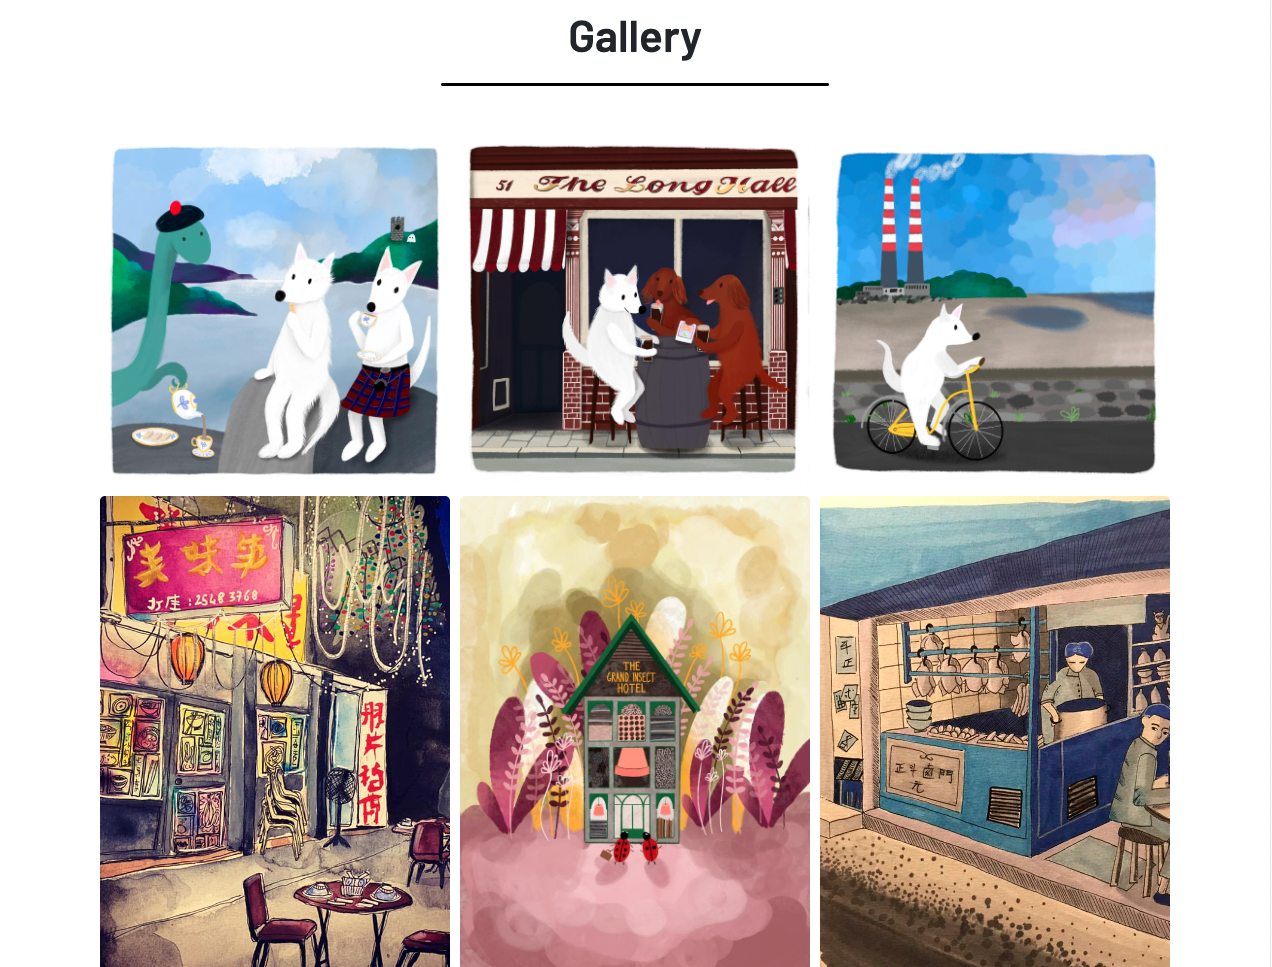
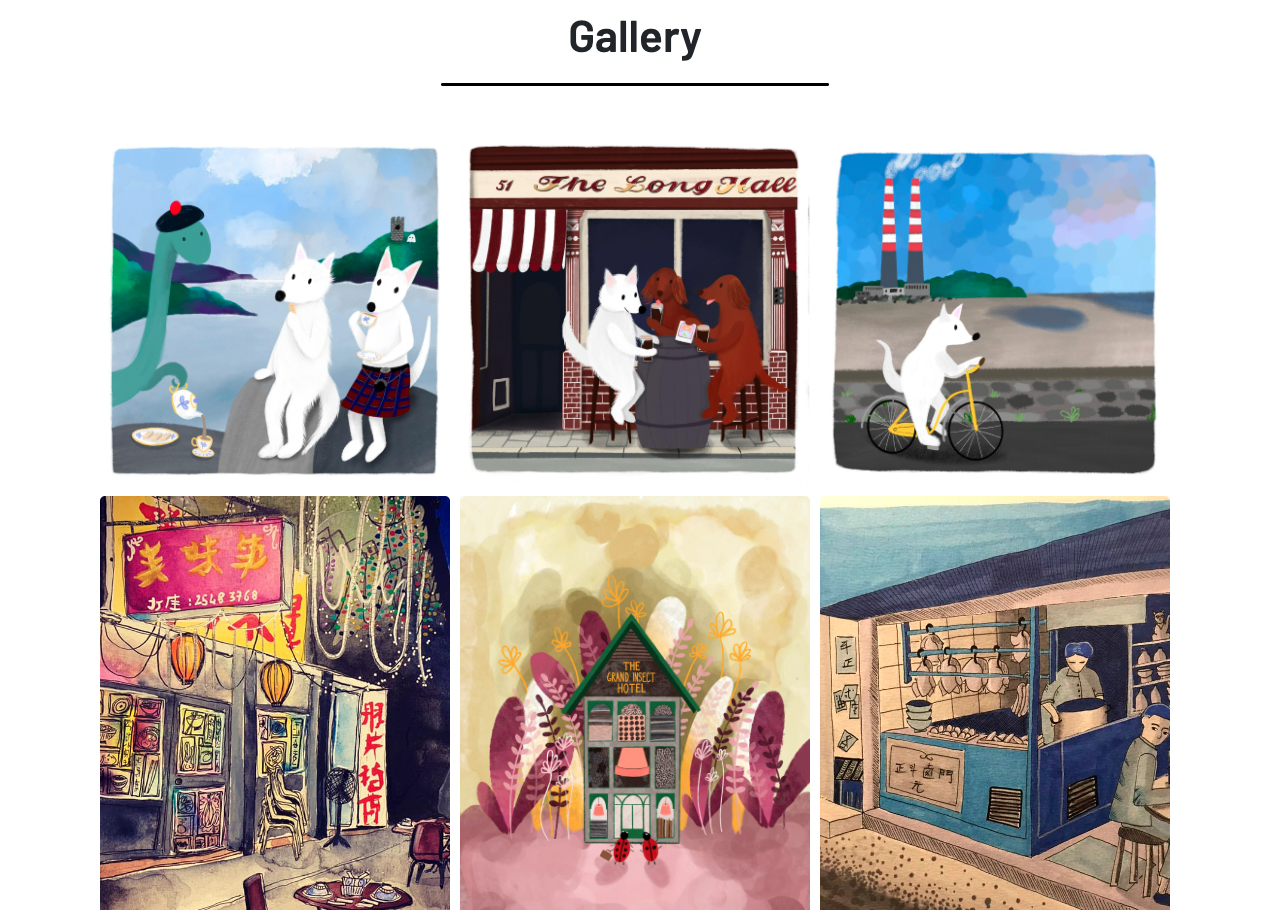
feat: added floating back to top button

diff --git a/assets/css/style.css b/assets/css/style.css
@@ -69,6 +69,68 @@ hr {
 }
 
 /* ==========
+BACK TO TOP BUTTON
+========== */
+
+/***************************************************************************************
+*    Title: Bootstrap 4 simple back to top with smooth scroll
+*    Author: BBBootstrap Team
+*    Date: 2020
+*    Availability: https://bbbootstrap.com/snippets/simple-back-top-smooth-scroll-17111555
+***************************************************************************************/
+
+.scroll{
+  color:#fff;
+  margin-top:100px;
+}
+
+#toTopBtn {
+   position: fixed;
+  bottom: 26px;
+  right: 39px;
+  z-index: 98;
+  padding: 21px;
+  background-color: hsla(0, 0%, 83%,.6);
+  
+}
+
+.js .cd-top--fade-out {
+  opacity: .5;
+}
+
+.js .cd-top--is-visible {
+  visibility: visible;
+  opacity: 1;
+}
+
+.js .cd-top {
+  visibility: hidden;
+  opacity: 0;
+  transition: opacity .3s,visibility .3s,background-color .3s;
+}
+
+.cd-top {
+  position: fixed;
+  bottom: 20px;
+  bottom: var(--cd-back-to-top-margin);
+  right: 20px;
+  right: var(--cd-back-to-top-margin);
+  display: inline-block;
+  height: 40px;
+  height: var(--cd-back-to-top-size);
+  width: 40px;
+  width: var(--cd-back-to-top-size);
+  box-shadow: 0 0 10px rgba(0,0,0,.05) !important;
+  background: url(https://res.cloudinary.com/dxfq3iotg/image/upload/v1571057658/cd-top-arrow.svg) no-repeat center 50%;
+  background-color: hsla(5,76%,62%,.8);
+  background-color: hsla(var(--cd-color-3-h),var(--cd-color-3-s),var(--cd-color-3-l),0.8);
+}
+
+.height{
+  height:3000px;
+}
+
+/* ==========
 CALLOUT BANNER
 ========== */
 
@@ -149,6 +211,7 @@ MAIN CONTENT
   padding-top: 10px;
 }
 
+
 /* ==========
 GALLERY
 ========== */
@@ -158,7 +221,6 @@ GALLERY
 *    Author: Ibadehin Mojeed
 *    Date: 30 May 2022
 *    Availability: https://blog.logrocket.com/how-create-responsive-image-gallery-css-flexbox/
-*
 ***************************************************************************************/
 
 .image-gallery {

diff --git a/my-work.html b/my-work.html
@@ -125,6 +125,8 @@
     </div>
     <!---- Main Content End---->
 
+    <a href="#" id="toTopBtn" class="cd-top text-replace js-cd-top cd-top--is-visible cd-top--fade-out" data-abc="true"></a>
+
     <!---- Footer ---->
     <footer>
       <div class="social-networks">

diff --git a/index.html b/index.html
@@ -73,6 +73,8 @@
     </div>
     <!---- Main Content End ---->
 
+    <a href="#" id="toTopBtn" class="cd-top text-replace js-cd-top cd-top--is-visible cd-top--fade-out" data-abc="true"></a>
+
     <!---- Footer ---->
     <footer>
       <div class="social-networks">

diff --git a/contact-me.html b/contact-me.html
@@ -75,6 +75,8 @@
     </div>
     <!---- Form End---->
 
+    <a href="#" id="toTopBtn" class="cd-top text-replace js-cd-top cd-top--is-visible cd-top--fade-out" data-abc="true"></a>
+
     <!---- Footer ---->
     <footer>
       <div class="social-networks">

diff --git a/gallery.html b/gallery.html
@@ -131,8 +131,9 @@
         </li>
       </ul>
     </div>
-
     <!---- Gallery End---->
+
+    <a href="#" id="toTopBtn" class="cd-top text-replace js-cd-top cd-top--is-visible cd-top--fade-out" data-abc="true"></a>
 
     <!---- Footer ---->
     <footer>
